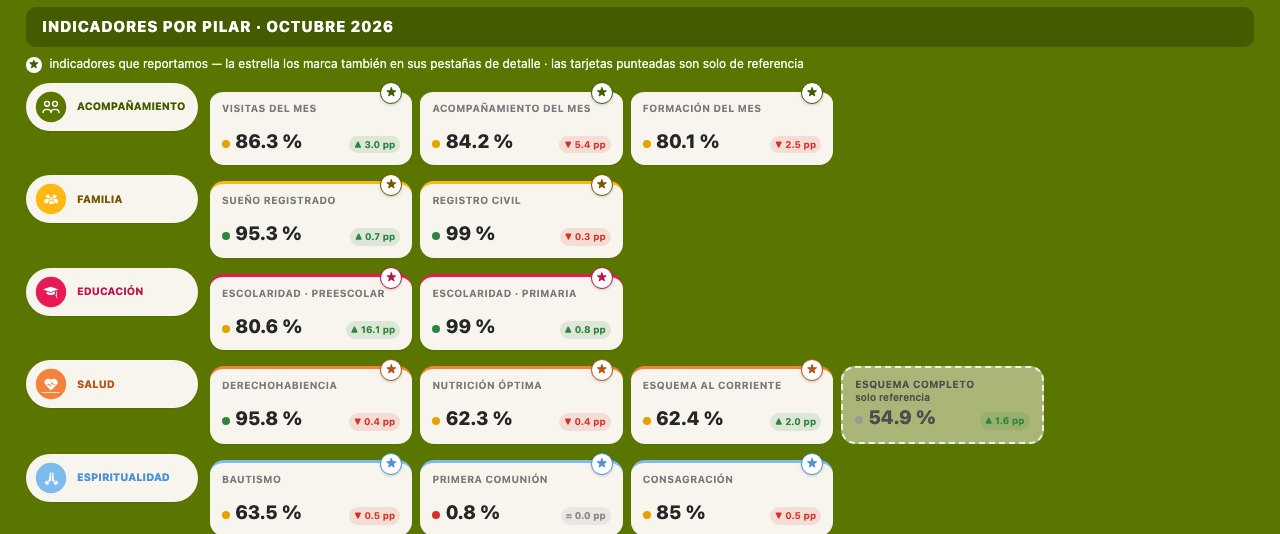
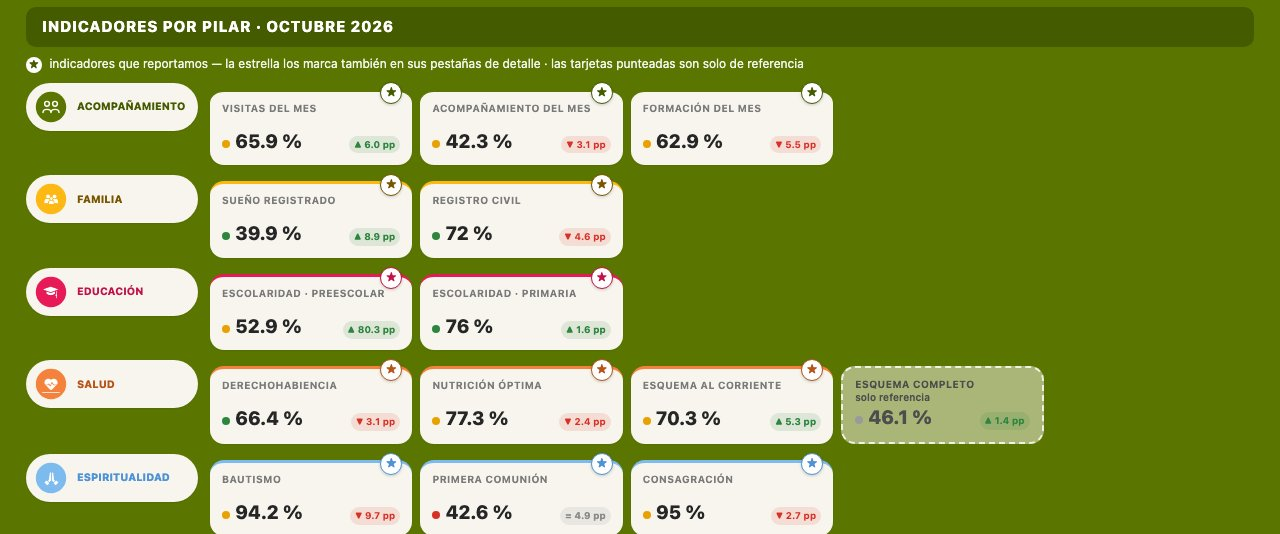
Manuales Mensual y Semanal con números de ejemplo
Capturas regeneradas con cifras inventadas y textos sin cifras reales,
porque los reportes son de uso interno y el portal es público.

diff --git a/manuales/reporte-mensual.html b/manuales/reporte-mensual.html
@@ -73,6 +73,7 @@
   dl.glosario dt{font:800 13.5px var(--font-sans);color:var(--text-strong)}
   dl.glosario dd{margin:0;font:400 13.5px/1.55 var(--font-sans)}
   footer{margin-top:46px;border-top:1px solid var(--border-subtle);padding-top:16px;font:400 12.5px var(--font-sans);color:var(--text-faint)}
+  .ejemplo{display:flex;gap:10px;align-items:flex-start;background:#fff;border:1px dashed var(--border-subtle);border-radius:14px;padding:12px 16px;font:400 13px/1.55 var(--font-sans);color:var(--text-muted);margin:10px 0 4px}
   @media (max-width:700px){ .flujo{grid-template-columns:1fr 1fr} .hero img.spot{display:none} dl.glosario{grid-template-columns:1fr} .tabla td:first-child{white-space:normal} }
   @media print{ body{background:#fff;-webkit-print-color-adjust:exact;print-color-adjust:exact} nav.indice,header.top a{display:none} h2{break-after:avoid} figure,.card,details,.paso{break-inside:avoid} details{display:block} }
 </style>
@@ -92,6 +93,9 @@
     <h1>Manual del Reporte Mensual</h1>
     <p>Qué mide el Reporte Mensual, de dónde salen sus números y cómo leer cada indicador, explicado para quien lo abre por primera vez.</p>
   </section>
+
+  <div class="ejemplo">🔒 <span>Las capturas de este manual usan <b>números de ejemplo</b>: sirven para ubicar cada parte del reporte, no son los datos reales. Los datos reales solo se ven dentro del reporte, con tu sesión institucional.</span></div>
+
 
   <nav class="indice">
     <a href="#para-que">1 · Para qué sirve</a>
@@ -121,8 +125,8 @@
 
   <h2 id="moverse"><span class="num">3</span>Cómo moverte en el reporte</h2>
   <figure>
-    <img src="img/mensual-controles.jpg" alt="Encabezado del Reporte Mensual con los controles de mes, comunidad, pestañas y vista">
-    <figcaption>El encabezado del reporte con todos sus controles.</figcaption>
+    <img src="img/mensual-controles.jpg?v=2" alt="Encabezado del Reporte Mensual con los controles de mes, comunidad, pestañas y vista">
+    <figcaption>El encabezado del reporte con todos sus controles. Captura con números de ejemplo.</figcaption>
   </figure>
   <ol class="call">
     <li><div><b>El renglón gris bajo el título</b> dice qué estás viendo: el mes, la fecha de corte, la comunidad y cuándo se generó.</div></li>
@@ -135,12 +139,12 @@
 
   <h2 id="tarjetas"><span class="num">4</span>Cómo se lee una tarjeta</h2>
   <figure>
-    <img src="img/mensual-indicadores.jpg" alt="Tarjetas de indicadores agrupadas por pilar">
-    <figcaption>Cada renglón es un pilar y cada tarjeta un indicador.</figcaption>
+    <img src="img/mensual-indicadores.jpg?v=2" alt="Tarjetas de indicadores agrupadas por pilar">
+    <figcaption>Cada renglón es un pilar y cada tarjeta un indicador. Captura con números de ejemplo.</figcaption>
   </figure>
   <figure>
-    <img src="img/mensual-tarjeta.jpg" alt="Detalle de tres tarjetas del pilar de acompañamiento">
-    <figcaption>Ejemplo: tarjetas del pilar Acompañamiento.</figcaption>
+    <img src="img/mensual-tarjeta.jpg?v=2" alt="Detalle de tres tarjetas del pilar de acompañamiento">
+    <figcaption>Ejemplo: tarjetas del pilar Acompañamiento. Captura con números de ejemplo.</figcaption>
   </figure>
   <ol class="call">
     <li><div><b>El porcentaje grande</b> es el resultado del mes: de cada 100 niños que deberían cumplir, cuántos cumplen.</div></li>
@@ -184,8 +188,8 @@
 
   <h2 id="generacion"><span class="num">6</span>La tabla por generación</h2>
   <figure>
-    <img src="img/mensual-generacion.jpg" alt="Tabla de reflexión por generación con los indicadores por fila y las generaciones por columna">
-    <figcaption>«Reflexión por generación»: ¿cumplimos cada indicador a la edad que corresponde?</figcaption>
+    <img src="img/mensual-generacion.jpg?v=2" alt="Tabla de reflexión por generación con los indicadores por fila y las generaciones por columna">
+    <figcaption>«Reflexión por generación»: ¿cumplimos cada indicador a la edad que corresponde? Captura con números de ejemplo.</figcaption>
   </figure>
   <p>Debajo de las tarjetas está esta tabla. Cada <b>renglón</b> es un indicador y cada <b>columna</b> una generación: niños de los mismos ciclos, es decir, de la misma edad. La 1ª es la más grande y la 11ª la más pequeña (la numeración es la de Cuatro Ciénegas).</p>
   <p>Sirve para ver <b>en qué edad se cae un indicador</b>. Por ejemplo, si Nutrición óptima está en verde en las generaciones grandes y en rojo en las pequeñas, el foco está en los más chiquitos. Los colores usan el mismo semáforo, y al pasar el cursor sobre una celda ves cuántos niños cumplen de cuántos.</p>
@@ -200,7 +204,7 @@
 
   <details class="tab" id="t-benef">
     <summary>Beneficiarios<span class="badge">a fondo</span><span class="q">¿Cuántas personas acompañamos, cuántas se han ido y por qué?</span></summary>
-    <figure><img src="img/mensual-beneficiarios.jpg" alt="Pestaña Beneficiarios del Reporte Mensual"><figcaption>La pestaña Beneficiarios.</figcaption></figure>
+    <figure><img src="img/mensual-beneficiarios.jpg?v=2" alt="Pestaña Beneficiarios del Reporte Mensual"><figcaption>La pestaña Beneficiarios. Captura con números de ejemplo.</figcaption></figure>
     <h3>Qué mirar primero</h3>
     <ul>
       <li><b>P2040 activos</b>: cuántos niños acompaña hoy el Plan, cuántos están «en observación» y en cuántas familias viven.</li>
@@ -216,7 +220,7 @@
 
   <details class="tab" id="t-acomp">
     <summary>Acompañamiento<span class="badge">a fondo</span><span class="q">¿A cuántos niños acompañamos en el mes, y cómo?</span></summary>
-    <figure><img src="img/mensual-acompanamiento.jpg" alt="Pestaña Acompañamiento del Reporte Mensual"><figcaption>La pestaña Acompañamiento, en su vista Resumen.</figcaption></figure>
+    <figure><img src="img/mensual-acompanamiento.jpg?v=2" alt="Pestaña Acompañamiento del Reporte Mensual"><figcaption>La pestaña Acompañamiento, en su vista Resumen. Captura con números de ejemplo.</figcaption></figure>
     <h3>Qué mirar primero</h3>
     <ul>
       <li><b>Población objetivo</b>: los niños a los que tocaba atender este mes. Son todos los activos menos los de familias bimestrales que ese mes no tenían visita.</li>
@@ -224,12 +228,12 @@
       <li><b>¿Cómo se acompañó a los niños?</b>: cuántos niños recibieron cada medio (visitas, medición de nutrición, seguimientos, programas) y cuántos medios tuvo cada niño. Los de «0 medios» son los que no recibieron nada en el mes.</li>
       <li><b>Visitas, Casos y Programas</b>: tres tarjetas de resumen. «Ver detalle →» abre su subpestaña (también arriba: Resumen, Visitas, Casos, Programas). Ahí están las sesiones de visita, los niños pendientes de visita, los casos nuevos y finalizados, y las asistencias a programas.</li>
     </ul>
-    <div class="ojo">👀 Algunos indicadores aparecen dos veces: <b>Objetivo</b> mide contra los niños a los que tocaba atender y <b>Total</b> contra todos los activos. La ⭐ marca el que se reporta. El aviso «+84 acompañados fuera del objetivo» son niños bimestrales atendidos aunque no les tocaba.</div>
+    <div class="ojo">👀 Algunos indicadores aparecen dos veces: <b>Objetivo</b> mide contra los niños a los que tocaba atender y <b>Total</b> contra todos los activos. La ⭐ marca el que se reporta. El aviso «+N acompañados fuera del objetivo» son niños bimestrales atendidos aunque no les tocaba.</div>
   </details>
 
   <details class="tab" id="t-salud">
     <summary>Salud<span class="badge">a fondo</span><span class="q">¿Tienen los niños seguro médico, buena nutrición y vacunas al día?</span></summary>
-    <figure><img src="img/mensual-salud.jpg" alt="Pestaña Salud del Reporte Mensual"><figcaption>La pestaña Salud, en su vista Resumen.</figcaption></figure>
+    <figure><img src="img/mensual-salud.jpg?v=2" alt="Pestaña Salud del Reporte Mensual"><figcaption>La pestaña Salud, en su vista Resumen. Captura con números de ejemplo.</figcaption></figure>
     <h3>Qué mirar primero</h3>
     <ul>
       <li><b>Los tres indicadores ⭐</b>: derechohabiencia (seguro médico), nutrición óptima y esquema de vacunación al corriente.</li>
@@ -239,9 +243,9 @@
       <li>Las subpestañas (Seguimiento Nutricional, Seguro Médico, Cartillas y Esquema de Vacunación) llevan a las listas y al detalle de cada tema.</li>
     </ul>
     <h3>La comparación con el promedio nacional</h3>
-    <figure><img src="img/mensual-salud-benchmark.jpg" alt="Tabla de comparación de salud contra el promedio nacional"><figcaption>Abajo de la pestaña: el Plan contra el promedio nacional (INEGI y ENSANUT).</figcaption></figure>
+    <figure><img src="img/mensual-salud-benchmark.jpg?v=2" alt="Tabla de comparación de salud contra el promedio nacional"><figcaption>Abajo de la pestaña: el Plan contra el promedio nacional (INEGI y ENSANUT). Captura con números de ejemplo.</figcaption></figure>
     <p>Compara al Plan contra fuentes oficiales: derechohabiencia contra el INEGI y esquema completo y cartilla contra la ENSANUT, en las mismas edades. La columna «Diferencia» dice cuántos puntos estamos arriba o abajo.</p>
-    <div class="ojo">👀 Nutrición óptima marca <b>62.3 %</b> en la tarjeta y <b>50 %</b> en la gráfica, y las dos están bien: el indicador solo cuenta a los niños con medición vigente, y la gráfica reparte a todos los niños, incluidos los que no tienen medición.</div>
+    <div class="ojo">👀 Nutrición óptima puede marcar un porcentaje en la tarjeta y otro distinto en la gráfica, y los dos están bien: el indicador solo cuenta a los niños con medición vigente, y la gráfica reparte a todos los niños, incluidos los que no tienen medición.</div>
   </details>
 
   <details class="tab" id="t-form">

diff --git a/manuales/reporte-semanal.html b/manuales/reporte-semanal.html
@@ -73,6 +73,7 @@
   dl.glosario dt{font:800 13.5px var(--font-sans);color:var(--text-strong)}
   dl.glosario dd{margin:0;font:400 13.5px/1.55 var(--font-sans)}
   footer{margin-top:46px;border-top:1px solid var(--border-subtle);padding-top:16px;font:400 12.5px var(--font-sans);color:var(--text-faint)}
+  .ejemplo{display:flex;gap:10px;align-items:flex-start;background:#fff;border:1px dashed var(--border-subtle);border-radius:14px;padding:12px 16px;font:400 13px/1.55 var(--font-sans);color:var(--text-muted);margin:10px 0 4px}
   @media (max-width:700px){ .flujo{grid-template-columns:1fr 1fr} .hero img.spot{display:none} dl.glosario{grid-template-columns:1fr} .tabla td:first-child{white-space:normal} }
   @media print{ body{background:#fff;-webkit-print-color-adjust:exact;print-color-adjust:exact} nav.indice,header.top a{display:none} h2{break-after:avoid} figure,.card,details,.paso{break-inside:avoid} details{display:block} }
 </style>
@@ -92,6 +93,9 @@
     <h1>Manual del Reporte Semanal</h1>
     <p>Cómo va el mes en curso, semana a semana, contra el cierre del mes anterior: qué mide, de dónde salen sus números y cómo leerlo sin confundirse.</p>
   </section>
+
+  <div class="ejemplo">🔒 <span>Las capturas de este manual usan <b>números de ejemplo</b>: sirven para ubicar cada parte del reporte, no son los datos reales. Los datos reales solo se ven dentro del reporte, con tu sesión institucional.</span></div>
+
 
   <nav class="indice">
     <a href="#para-que">1 · Para qué sirve</a>
@@ -117,8 +121,8 @@
 
   <h2 id="moverse"><span class="num">3</span>Cómo moverte en el reporte</h2>
   <figure>
-    <img src="img/semanal-beneficiarios.jpg" alt="Encabezado y pestaña Beneficiarios del Reporte Semanal">
-    <figcaption>El encabezado con sus controles y la pestaña Beneficiarios.</figcaption>
+    <img src="img/semanal-beneficiarios.jpg?v=2" alt="Encabezado y pestaña Beneficiarios del Reporte Semanal">
+    <figcaption>El encabezado con sus controles y la pestaña Beneficiarios. Captura con números de ejemplo.</figcaption>
   </figure>
   <ol class="call">
     <li><div><b>El renglón bajo el título</b> dice la semana, la fecha de corte, si la semana va en curso y desde qué cierre se compara.</div></li>
@@ -157,7 +161,7 @@
 
   <details class="tab" id="t-res">
     <summary>Resumen de la semana<span class="badge">a fondo</span><span class="q">¿Cómo va el mes comparado con el mes pasado al mismo día?</span></summary>
-    <figure><img src="img/semanal-resumen.jpg" alt="Pestaña Resumen de la semana del Reporte Semanal"><figcaption>Punto de partida, los tres indicadores del mes y su avance día a día.</figcaption></figure>
+    <figure><img src="img/semanal-resumen.jpg?v=2" alt="Pestaña Resumen de la semana del Reporte Semanal"><figcaption>Punto de partida, los tres indicadores del mes y su avance día a día. Captura con números de ejemplo.</figcaption></figure>
     <ul>
       <li><b>Punto de partida → acumulado</b>: arriba ves desde qué cierre se compara y hasta qué día va el acumulado del mes.</li>
       <li><b>Visitas, Acompañamiento y Formación del mes ⭐</b>: el porcentaje acumulado, cuánto sumó esta semana y la comparación contra el mes anterior al mismo día. También el cierre del mes anterior como referencia.</li>
@@ -165,14 +169,14 @@
       <li><b>Lo que sumó cada semana</b>: cuántos niños nuevos aportó cada semana a cada indicador.</li>
     </ul>
     <h3>Indicadores de estado</h3>
-    <figure><img src="img/semanal-estado.jpg" alt="Tabla de indicadores de estado contra el cierre del mes anterior"><figcaption>Los indicadores de estado contra el cierre del mes anterior.</figcaption></figure>
-    <p>Esta tabla compara los indicadores de estado contra el cierre. «Cambio en niños» dice cuántos ganaron y cuántos perdieron (por ejemplo «+46 / −23»). El botón «Solo esta semana» compara solo contra la semana anterior, y al dar clic en un indicador ves quién lo ganó, quién lo perdió y quién sigue pendiente.</p>
+    <figure><img src="img/semanal-estado.jpg?v=2" alt="Tabla de indicadores de estado contra el cierre del mes anterior"><figcaption>Los indicadores de estado contra el cierre del mes anterior. Captura con números de ejemplo.</figcaption></figure>
+    <p>Esta tabla compara los indicadores de estado contra el cierre. «Cambio en niños» dice cuántos ganaron y cuántos perdieron (por ejemplo, «+12 / −5» quiere decir que 12 niños lo ganaron y 5 lo perdieron). El botón «Solo esta semana» compara solo contra la semana anterior, y al dar clic en un indicador ves quién lo ganó, quién lo perdió y quién sigue pendiente.</p>
     <div class="ojo">👀 No te alarmes si Visitas marca 25 % a mitad de mes: compáralo contra el mes pasado <b>al mismo día</b>, no contra el cierre.</div>
   </details>
 
   <details class="tab" id="t-vis">
     <summary>Visitas<span class="badge">a fondo</span><span class="q">¿Cuántos niños llevamos visitados y cuántos faltan?</span></summary>
-    <figure><img src="img/semanal-visitas.jpg" alt="Pestaña Visitas del Reporte Semanal"><figcaption>La pestaña Visitas.</figcaption></figure>
+    <figure><img src="img/semanal-visitas.jpg?v=2" alt="Pestaña Visitas del Reporte Semanal"><figcaption>La pestaña Visitas. Captura con números de ejemplo.</figcaption></figure>
     <ul>
       <li><b>% de niños con visita formativa ⭐</b>: niños de familias mensuales visitados en el mes. Debajo, «De dónde sale la base» explica la cuenta: todos los P2040 menos los bimestrales que el Plan del Mes no programa ese mes.</li>
       <li><b>Visitas registradas en la semana</b> (localizadas y no localizadas), niños visitados, <b>nuevos en el mes</b> (su primera visita del mes cayó en esta semana) y <b>pendientes</b>.</li>
